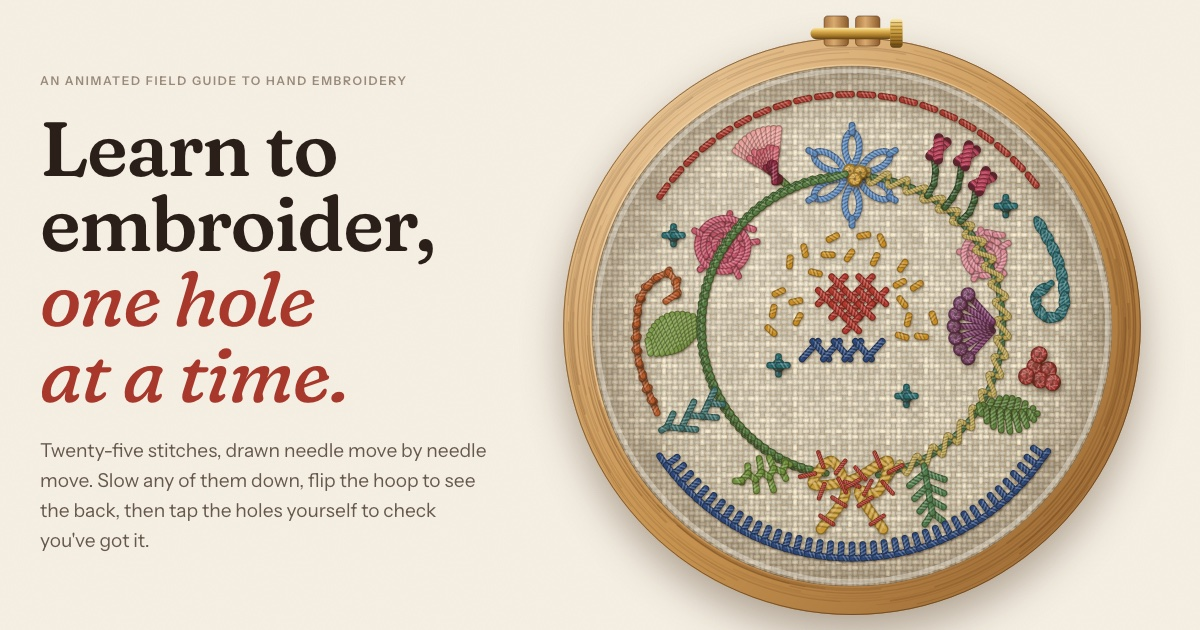
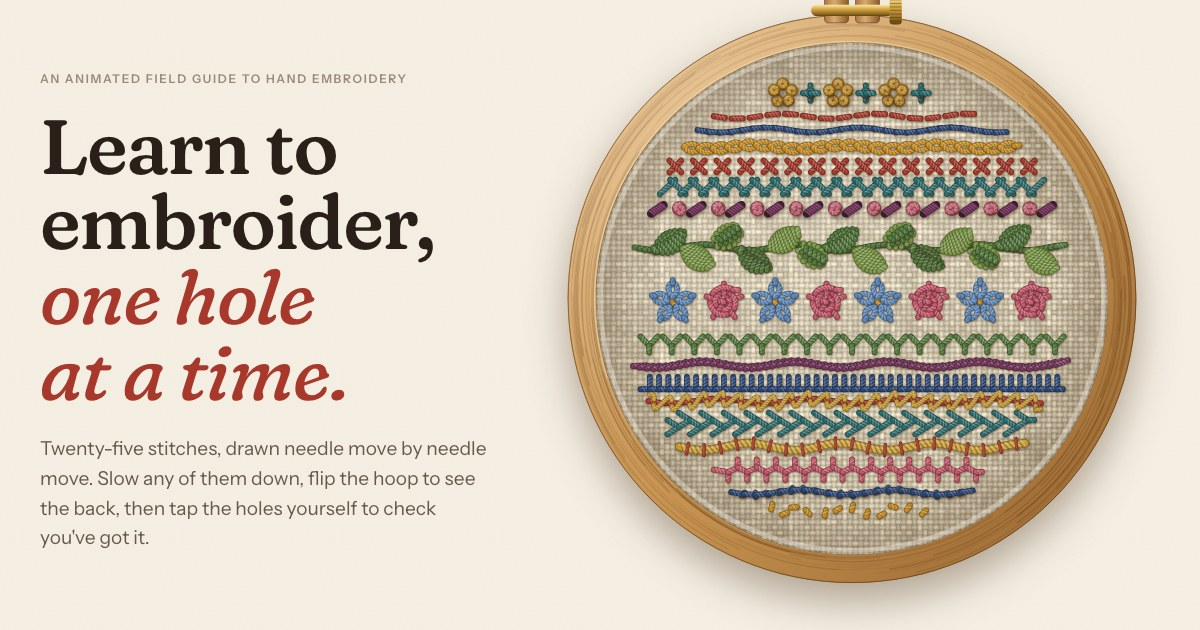
Replace the wreath with a band sampler
Eighteen bands fitted to the circle, one stitch or a natural pair per band (daisies with French knot centres beside woven roses, a split-stitch vine carrying fishbone, satin and long-and-short leaves), so nothing crosses another motif. Lazy daisy takes an optional tack length for small petals. The share image shows the new sampler.

diff --git a/src/lib/hero.ts b/src/lib/hero.ts
@@ -2,135 +2,162 @@ import { compile, frameAt, type Op, type Program, type Thread } from './engine.t
 import { Scene } from './render.ts';
 import {
   T, track, curve, running, back, split, stem, whipped, couch, chain, daisy, fly, feather, blanket, cretan,
-  crossCells, herringbone, satin, fan, fishbone, seeds, knot, bullion, pistil, fourLegged, coral, wheel, STITCHES,
+  crossCells, herringbone, satin, fishbone, seeds, knot, bullion, pistil, fourLegged, coral, wheel, STITCHES,
 } from './stitches.ts';
-import { type V, v, add, sub, mul, polar, rot, dist, norm, perp, rng } from './geom.ts';
+import { type V, v, add, sub, mul, lerp, rot, dist, perp } from './geom.ts';
 
-const W = 1.25;
+const W = 1.1;
 const deg = (d: number) => (d * Math.PI) / 180;
-const onRing = (r: number, d: number) => polar(r, deg(d));
-const arc = (r: number, d0: number, d1: number, n = 24) => Array.from({ length: n + 1 }, (_, i) => onRing(r, d0 + ((d1 - d0) * i) / n));
-const leaf = (max: number, pow = 0.8) => (t: number) => max * Math.sin(Math.PI * Math.min(1, Math.max(0, t))) ** pow;
-const out = (d: number) => norm(onRing(1, d));
+const leafW = (max: number, pow = 0.8) => (t: number) => max * Math.sin(Math.PI * Math.min(1, Math.max(0, t))) ** pow;
+/** Radius of cloth the bands stay inside, clear of the inner hoop. */
+const RC = 46;
+/** Space between bands. */
+const GAP = 1.3;
+const P = {
+  madder: '#a8382b', indigo: '#2c4777', ochre: '#c58b22', gold: '#c79a35', sage: '#557a3f', moss: '#7c9a48',
+  plum: '#76375e', rose: '#c4566a', teal: '#2c6d70', sky: '#5b86b8',
+};
+const U = (p: V, th?: Thread): Op => ({ k: 'up', p, ...(th ? { th } : {}) });
+const D = (p: V): Op => ({ k: 'down', p });
 
 interface Motif { slug: string; ops: Op[]; th: Thread; prog?: Program; t0?: number; pts?: V[] }
+/** A row of the sampler: its height, and what to stitch along centre line `y` between `x0` and `x1`. */
+interface Band { h: number; draw: (y: number, x0: number, x1: number) => void }
 
+/** Gentle wave along a band. */
+const line = (y: number, x0: number, x1: number, amp = 0.5) =>
+  Array.from({ length: 41 }, (_, k) => {
+    const x = x0 + ((x1 - x0) * k) / 40;
+    return v(x, y + amp * Math.sin(((x - x0) / 9) * Math.PI));
+  });
+
+/** Evenly spaced centres, as many as fit between `x0` and `x1`, centred. */
+const slots = (x0: number, x1: number, step: number) => {
+  const n = Math.max(1, Math.floor((x1 - x0) / step) + 1);
+  return Array.from({ length: n }, (_, k) => (x0 + x1) / 2 + (k - (n - 1) / 2) * step);
+};
+
+/** A leaf's axis from base `a` along `u`, bowed slightly. */
+const axis = (a: V, u: V, len: number) => track(curve([a, add(add(a, mul(u, len / 2)), mul(perp(u), 0.35)), add(a, mul(u, len))]));
+
+/**
+ * The home-page sampler: horizontal bands, one stitch (or a pair that belong together) per band, like the practice
+ * cloths embroiderers make. Bands are fitted to the circle so nothing crosses the hoop or another band.
+ */
 function compose(): Motif[] {
   const m: Motif[] = [];
-  const add_ = (slug: string, th: Thread, build: (o: Op[]) => void) => {
+  const add_ = (slug: string, color: string, build: (o: Op[], th: Thread) => void, w = W) => {
+    const th = T(color, w);
     const o: Op[] = [];
-    build(o);
+    build(o, th);
     m.push({ slug, ops: o, th });
   };
-  const VR = 29;
+  const LL = 7;
 
-  add_('stem-stitch', T('#557a3f', W), (o) => stem(o, curve(arc(VR, 100, 268, 12)), 3.2, 0.32));
-  add_('whipped-running-stitch', T('#4c7044', W), (o) => whipped(o, curve(arc(VR, 80, -88, 12)), 2.6, 1.1, T('#b9a04f', 1), 1.25));
+  const bands: Band[] = [
+    { h: 5, draw: (y, x0, x1) => {
+      const xs = slots(x0 + 2.2, x1 - 2.2, 5.4);
+      add_('pistil-stitch', P.ochre, (o) => xs.forEach((x, k) => {
+        if (k % 2 === 0) for (let j = 0; j < 5; j++) pistil(o, v(x, y), deg(-90 + j * 72), 0.5, 1.3);
+      }));
+      add_('four-legged-knot', P.teal, (o) => xs.forEach((x, k) => k % 2 && fourLegged(o, v(x, y), 1.5)));
+    } },
+    { h: 1.4, draw: (y, x0, x1) => add_('running-stitch', P.madder, (o) => running(o, line(y, x0, x1), 2.2, 1.3)) },
+    { h: 1.4, draw: (y, x0, x1) => add_('back-stitch', P.indigo, (o) => back(o, line(y, x0, x1), 2.2)) },
+    { h: 2.6, draw: (y, x0, x1) => add_('chain-stitch', P.ochre, (o) => chain(o, line(y, x0, x1 - 1.2, 0.4), 2.8, 0.46)) },
+    { h: 2.4, draw: (y, x0, x1) => add_('cross-stitch', P.madder, (o) => {
+      const s = 2.3;
+      let n = Math.floor((x1 - x0) / s);
+      if (n % 2 === 0) n--;
+      crossCells(o, v((x0 + x1) / 2 - (n * s) / 2, y - s / 2), s, [Array.from({ length: n }, (_, k) => (k % 2 ? '.' : 'X')).join('')]);
+    }) },
+    { h: 3, draw: (y, x0, x1) => add_('herringbone-stitch', P.teal, (o) => {
+      const count = Math.floor((x1 - x0 - 1) / 2);
+      herringbone(o, v((x0 + x1) / 2 - (count * 2 + 1) / 2, y), 2.8, 3, 1, count);
+    }) },
+    { h: 3.2, draw: (y, x0, x1) => {
+      const xs = slots(x0 + 1.6, x1 - 1.6, 3.8);
+      add_('bullion-knot', P.plum, (o) => xs.forEach((x, k) => k % 2 === 0 && bullion(o, v(x - 1.2, y + 0.8), v(x + 1.2, y - 0.8), 6)));
+      add_('colonial-knot', P.rose, (o) => xs.forEach((x, k) => k % 2 && knot(o, v(x, y), W, 2, 'colonial')));
+    } },
+    { h: 9, draw: (y, x0, x1) => {
+      const vine = line(y, x0, x1, 0.6);
+      add_('split-stitch', P.sage, (o) => split(o, vine, 2));
+      const xs = slots(x0 + 2.5, x1 - LL, 5.6);
+      const at = (x: number) => v(x, y + 0.6 * Math.sin(((x - x0) / 9) * Math.PI));
+      const leaves = xs.map((x, k) => ({ a: at(x), u: rot(v(1, 0), deg(k % 2 ? 32 : -32)), kind: k % 3 }));
+      add_('fishbone-stitch', P.sage, (o) => leaves.forEach(({ a, u, kind }) => {
+        if (kind !== 0) return;
+        const A = axis(a, u, LL);
+        fishbone(o, curve([A.p(A.L), A.p(A.L * 0.5), a]), leafW(1.9), 8, W);
+      }));
+      add_('satin-stitch', P.moss, (o) => leaves.forEach(({ a, u, kind }) => {
+        if (kind !== 1) return;
+        const A = axis(a, u, LL);
+        const hw = leafW(1.9, 0.75);
+        const sl = 0.1;
+        satin(o, (t) => add(A.p(t * A.L), mul(A.n(t * A.L), hw(t))), (t) => sub(A.p((t + sl) * A.L), mul(A.n((t + sl) * A.L), hw(t + sl))), 10, 0.03, 0.97 - sl);
+      }));
+      add_('long-and-short-stitch', P.moss, (o, light) => {
+        const dark = T(P.sage, W);
+        leaves.forEach(({ a, u, kind }) => {
+          if (kind !== 2) return;
+          const A = axis(a, u, LL);
+          const hw = leafW(2, 0.75);
+          const edge = (t: number, side: number) => add(A.p(t * A.L), mul(A.n(t * A.L), side * hw(t)));
+          const mid = (t: number) => A.p(Math.min(1, t) * A.L);
+          let first = true;
+          for (const side of [1, -1]) for (let k = 0; k < 6; k++) {
+            const t = 0.12 + k * 0.14;
+            const e = edge(t, side);
+            o.push(U(e, first ? light : undefined), D(lerp(e, mid(t + 0.12), k % 2 ? 0.5 : 0.78)));
+            first = false;
+          }
+          first = true;
+          for (const side of [1, -1]) for (let k = 0; k < 5; k++) {
+            const t = 0.18 + k * 0.14;
+            const e = edge(t, side);
+            o.push(U(lerp(e, mid(t + 0.12), 0.5), first ? dark : undefined), D(mid(t + 0.12)));
+            first = false;
+          }
+        });
+      });
+    } },
+    { h: 9.8, draw: (y, x0, x1) => {
+      const xs = slots(x0 + 4.6, x1 - 4.6, 10);
+      add_('lazy-daisy', P.sky, (o) => xs.forEach((x, k) => {
+        if (k % 2 === 0) for (let j = 0; j < 5; j++) daisy(o, v(x, y), deg(-90 + j * 72), 1.1, 2.6, 0.55, 0.6);
+      }));
+      add_('french-knot', P.ochre, (o) => xs.forEach((x, k) => k % 2 === 0 && knot(o, v(x, y), W, 3)));
+      add_('woven-wheel', P.rose, (o) => xs.forEach((x, k) => k % 2 && wheel(o, v(x, y), 3.6, W, 5, deg(-90))));
+    } },
+    { h: 3.8, draw: (y, x0, x1) => add_('fly-stitch', P.sage, (o) =>
+      slots(x0 + 1.8, x1 - 1.8, 4.4).forEach((x) => fly(o, v(x - 1.7, y - 1.4), v(x + 1.7, y - 1.4), v(x, y + 0.4), v(x, y + 1.7)))) },
+    { h: 1.8, draw: (y, x0, x1) => add_('stem-stitch', P.plum, (o) => stem(o, line(y, x0, x1, 0.6), 2.6, 0.3)) },
+    { h: 2.6, draw: (y, x0, x1) => add_('blanket-stitch', P.indigo, (o) => blanket(o, line(y + 1.3, x0, x1 - 1.2, 0), 2.4, 1.8, -1)) },
+    { h: 2, draw: (y, x0, x1) => add_('whipped-running-stitch', P.madder, (o) => whipped(o, line(y, x0, x1), 2.4, 1, T(P.gold, 0.9), 1.25)) },
+    { h: 4.2, draw: (y, x0, x1) => add_('feather-stitch', P.teal, (o) => {
+      const s = 2.8;
+      const d = 2.2;
+      feather(o, v(x0 + 0.4, y - s / 4), v(1, 0), v(0, 1), s, d, Math.floor((x1 - x0 - 2) / d));
+    }) },
+    { h: 2.2, draw: (y, x0, x1) => add_('couching', P.gold, (o) => couch(o, line(y, x0, x1, 0.7), T(P.gold, 1.7), T(P.madder, 0.6), 3.2), 1.7) },
+    { h: 4.2, draw: (y, x0, x1) => add_('cretan-stitch', P.rose, (o) => cretan(o, line(y, x0, x1, 0), Math.round((x1 - x0) / 2.1), () => 2, 0.45)) },
+    { h: 2, draw: (y, x0, x1) => add_('coral-stitch', P.indigo, (o) => coral(o, line(y, x0, x1), 2.4)) },
+    { h: 2.6, draw: (y, x0, x1) => add_('seed-stitch', P.ochre, (o) =>
+      seeds(o, v((x0 + x1) / 2, y), (x1 - x0) / 2, Math.round(((x1 - x0) / 2.2) * 1.3), 1.1, 5, 2.2, (p) => Math.abs(p.y - y) < 0.85)) },
+  ];
 
-  add_('lazy-daisy', T('#5b86b8', W), (o) => {
-    for (let k = 0; k < 6; k++) daisy(o, onRing(VR, -90), deg(-90 + k * 60), 1.7, 6.6, 0.36);
-  });
-  add_('french-knot', T('#d09a2c', W), (o) => {
-    [v(-0.9, -0.6), v(1, -0.4), v(0, 0.95)].forEach((d) => knot(o, add(onRing(VR, -90), d), W));
-  });
-
-  add_('woven-wheel', T('#c4566a', W), (o) => wheel(o, onRing(VR, 212), 6.4, W, 5, deg(-80)));
-  add_('woven-wheel', T('#d98a94', W), (o) => wheel(o, onRing(VR, -28), 5, W, 5, deg(-100)));
-
-  add_('long-and-short-stitch', T('#e9a19a', W), (o) => {
-    const base = onRing(VR + 2.6, 243);
-    const c = add(base, mul(out(243), 1.2));
-    const dir = deg(243);
-    const R0 = 8.8;
-    const r = rng(12);
-    fan(o, c, dir - 0.62, dir + 0.62, 11, (k) => R0 - (k % 2 ? 2.9 : 4.7), () => R0);
-    fan(o, c, dir - 0.6, dir + 0.6, 9, () => R0 - 7.6 - r() * 0.8, () => R0 - 3 - r() * 1.2, T('#cf6470', W));
-    fan(o, c, dir - 0.55, dir + 0.55, 6, () => R0 - 10.4 + r() * 0.4, () => R0 - 6.5 - r(), T('#8f2e45', W));
-  });
-  add_('split-stitch', T('#5f803c', W), (o) => split(o, curve([onRing(VR, 246), onRing(VR + 1.8, 244.5), onRing(VR + 3.6, 243)]), 2.2));
-
-  add_('back-stitch', T('#3f5f35', W), (o) => {
-    for (const [a, len] of [[-64, 7], [-56, 8.6], [-48, 6.6]] as const) back(o, curve([onRing(VR, a + 4), add(onRing(VR, a + 4), mul(out(a), len * 0.5)), add(onRing(VR, a), mul(out(a), len))]), 2.4);
-  });
-  add_('bullion-knot', T('#b8455b', W), (o) => {
-    for (const [a, len] of [[-64, 7], [-56, 8.6], [-48, 6.6]] as const) {
-      const tip = add(onRing(VR, a), mul(out(a), len));
-      const d = out(a);
-      bullion(o, sub(tip, mul(perp(d), 0.85)), add(add(tip, mul(d, 3.8)), mul(perp(d), 0.85)), 5);
-      bullion(o, add(tip, mul(perp(d), 0.85)), sub(add(tip, mul(d, 3.8)), mul(perp(d), 0.85)), 5);
-    }
-  });
-
-  add_('pistil-stitch', T('#7a3b66', W), (o) => {
-    const c = onRing(VR - 1.2, 0);
-    for (let k = 0; k < 7; k++) pistil(o, c, deg(180 + (k - 3) * 16), 1.2, 7);
-  });
-  add_('colonial-knot', T('#a8332a', W), (o) => {
-    const c = onRing(35.5, 13);
-    [v(0, 0), v(2.6, 0.6), v(1, 2.5), v(-1.6, 1.8), v(3.4, 3), v(0.8, -2.3)].forEach((d) => knot(o, add(c, d), W, 2, 'colonial'));
-  });
-
-  add_('fishbone-stitch', T('#5f803c', W), (o) => {
-    const a = onRing(VR, 33);
-    const dir = rot(out(33), deg(-28));
-    fishbone(o, curve([add(a, mul(dir, 11.5)), add(add(a, mul(dir, 6)), mul(perp(dir), 0.7)), a]), leaf(3.2), 8, W);
-  });
-  add_('fly-stitch', T('#4f7a4a', W), (o) => {
-    const p0 = onRing(VR, 62);
-    const u = rot(out(62), deg(18));
-    const n = perp(u);
-    for (let k = 0; k < 4; k++) {
-      const s = 2.6 + k * 2.6;
-      const wd = 3.4 - k * 0.55;
-      fly(o, add(add(p0, mul(u, s + 1.9)), mul(n, -wd)), add(add(p0, mul(u, s + 1.9)), mul(n, wd)), add(p0, mul(u, s)), add(p0, mul(u, s - 1.4)));
-    }
-  });
-  add_('cretan-stitch', T('#6f8f3a', W), (o) => {
-    const a = onRing(VR, 114);
-    const dir = rot(out(114), deg(52));
-    cretan(o, curve([a, add(add(a, mul(dir, 5)), mul(perp(dir), -0.8)), add(a, mul(dir, 10.5))]), 8, leaf(3.3), 0.65);
-  });
-  add_('feather-stitch', T('#3f6f6a', W), (o) => {
-    const u = out(150);
-    feather(o, add(onRing(VR, 150), mul(perp(u), -0.6)), u, perp(u), 3.2, 2.3, 5);
-  });
-  add_('satin-stitch', T('#7c9a48', W), (o) => {
-    const a = onRing(VR, 182);
-    const dir = rot(out(182), deg(-32));
-    const P = track(curve([a, add(add(a, mul(dir, 6)), mul(perp(dir), 0.8)), add(a, mul(dir, 12))]));
-    const hw = leaf(3.3, 0.75);
-    const sl = 0.1;
-    satin(o, (t) => add(P.p(t * P.L), mul(P.n(t * P.L), hw(t))), (t) => sub(P.p((t + sl) * P.L), mul(P.n((t + sl) * P.L), hw(t + sl))), 13, 0.03, 0.97 - sl);
-  });
-
-  add_('cross-stitch', T('#b0372c', W), (o) => crossCells(o, v(-6.5, -9.5), 2.6, ['.X.X.', 'XXXXX', '.XXX.', '..X..']));
-  add_('herringbone-stitch', T('#2c4777', W), (o) => herringbone(o, v(-9.6, 4.6), 3.4, 3.1, 1.05, 7));
-  add_('seed-stitch', T('#c58b22', W), (o) => seeds(o, v(0, -2), 16, 22, 1.6, 4, 3.2, (p) => {
-    const d = dist(p, v(0, -3));
-    return d > 9.5 && p.y < 2;
-  }));
-
-  add_('couching', T('#c79a35', 2), (o) => {
-    const c = v(0, 33.6);
-    const spiral = Array.from({ length: 49 }, (_, k) => add(c, polar(1.8 + 4.6 * (k / 48), deg(-90 + 450 * (k / 48)))));
-    couch(o, spiral, T('#c79a35', 2), T('#a8382b', 0.7), 3.4);
-  });
-  add_('running-stitch', T('#a8382b', W), (o) => running(o, curve(arc(44.6, -146, -34, 30)), 2.5, 1.6));
-  add_('blanket-stitch', T('#2c4777', W), (o) => blanket(o, curve(arc(44.6, 146, 34, 30)), 2.6, 2.2, -1));
-  add_('chain-stitch', T('#2f6d70', W), (o) => chain(o, curve([onRing(41, -30), onRing(41.6, -17), onRing(40.8, -4), v(36.8, -1.8), v(35, -5.6), v(37.4, -7.6)]), 2.6, 0.32));
-  add_('coral-stitch', T('#b65a2a', W), (o) => coral(o, curve([onRing(41, 156), onRing(41.6, 172), onRing(41, 188), v(-35.4, -10.4), v(-33.4, -6.8), v(-35.8, -4.8)]), 2.6));
-  add_('four-legged-knot', T('#2c6d70', W), (o) => {
-    for (const p of [onRing(38.5, -153), onRing(37.5, -38), onRing(17, 52), onRing(16, 152)]) fourLegged(o, p, 1.7);
-  });
+  const total = bands.reduce((s, b) => s + b.h, 0) + GAP * (bands.length - 1);
+  let y = -total / 2;
+  for (const b of bands) {
+    const edge = Math.max(Math.abs(y), Math.abs(y + b.h));
+    const half = Math.sqrt(Math.max(0, RC * RC - edge * edge)) - 1.2;
+    b.draw(y + b.h / 2, -half, half);
+    y += b.h + GAP;
+  }
   return m;
 }
-
-const ORDER = [
-  'stem-stitch', 'whipped-running-stitch', 'lazy-daisy', 'woven-wheel', 'split-stitch', 'long-and-short-stitch', 'back-stitch',
-  'fishbone-stitch', 'satin-stitch', 'french-knot', 'bullion-knot', 'cretan-stitch', 'fly-stitch', 'feather-stitch', 'pistil-stitch',
-  'cross-stitch', 'colonial-knot', 'herringbone-stitch', 'couching', 'running-stitch', 'blanket-stitch', 'chain-stitch', 'coral-stitch',
-  'seed-stitch', 'four-legged-knot',
-];
 
 export function mountHero() {
   const el = document.querySelector<HTMLCanvasElement>('canvas.sampler');
@@ -158,7 +185,7 @@ class Hero {
   constructor(el: HTMLCanvasElement) {
     this.scene = new Scene(el, { mode: 'hoop', R: 50, pitch: 1.05 });
     this.tip = el.parentElement!.querySelector<HTMLElement>('.tip')!;
-    this.motifs = compose().sort((a, b) => ORDER.indexOf(a.slug) - ORDER.indexOf(b.slug));
+    this.motifs = compose();
     const tracks = Array.from({ length: 8 }, (_, k) => k * 0.12);
     const MAX = 4;
     for (const mo of this.motifs) {

diff --git a/src/lib/stitches.ts b/src/lib/stitches.ts
@@ -113,10 +113,10 @@ export function chain(o: Op[], path: V[], len: number, wf = 0.3) {
   o.push(down(add(pts[n], mul(P.d(P.L), 1.1))));
 }
 
-export function daisy(o: Op[], c: V, ang: number, r0: number, len: number, wf = 0.34) {
+export function daisy(o: Op[], c: V, ang: number, r0: number, len: number, wf = 0.34, tack = 1.3) {
   const a = add(c, polar(r0, ang));
   const tip = add(c, polar(r0 + len, ang));
-  o.push(up(a), down(a, { loop: 'round', wf }), up(tip, { catch: true }), down(add(tip, polar(1.3, ang))));
+  o.push(up(a), down(a, { loop: 'round', wf }), up(tip, { catch: true }), down(add(tip, polar(tack, ang))));
 }
 
 export function fly(o: Op[], a: V, b: V, c: V, tack: V) {
